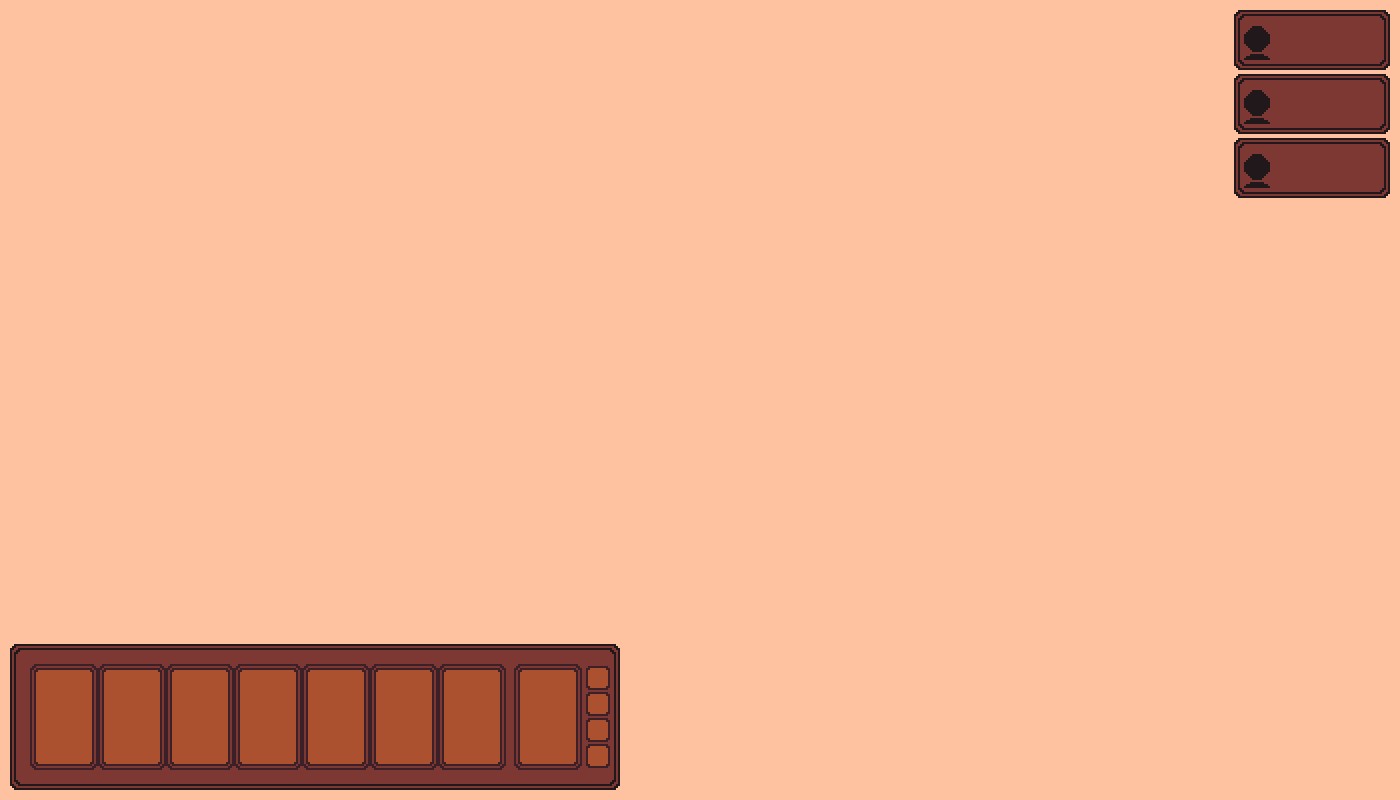
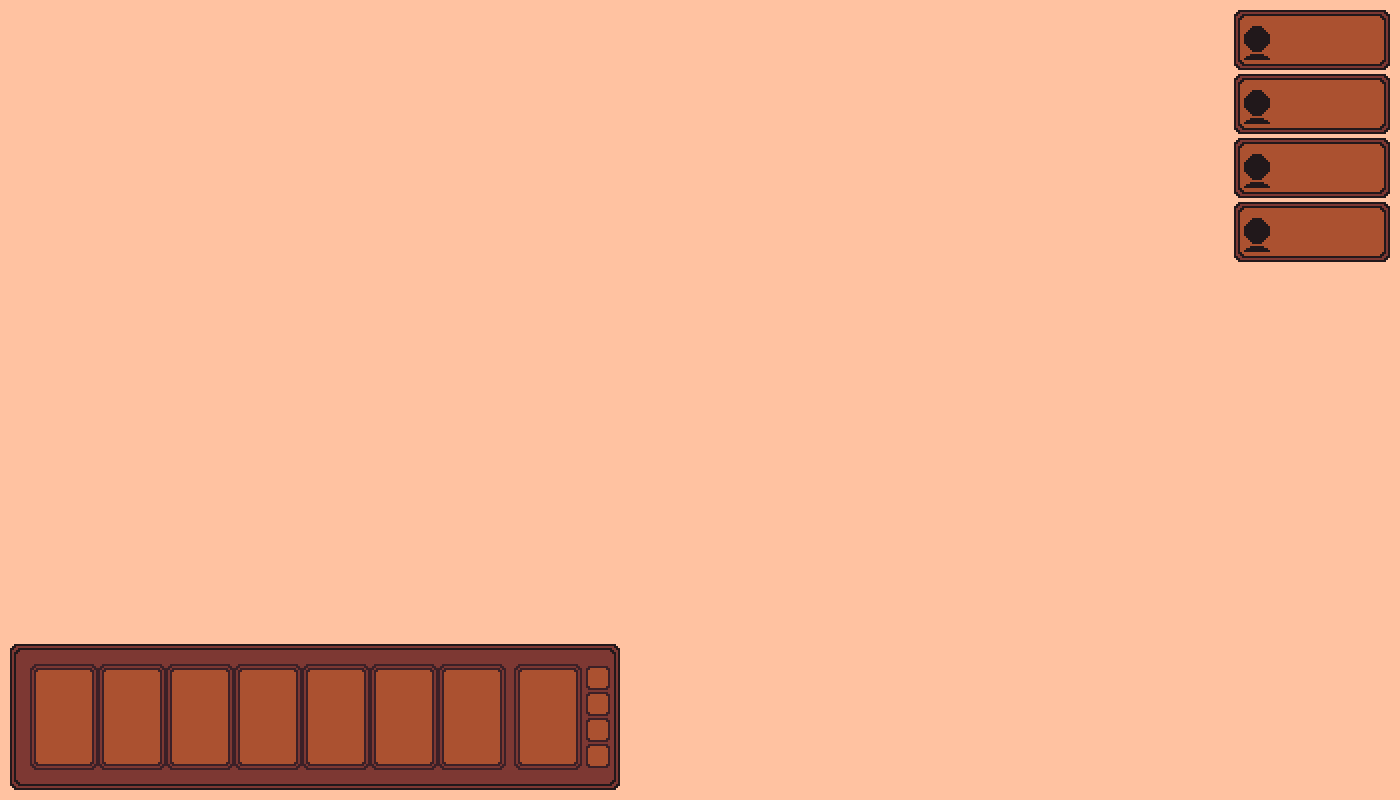
players_dominoes function has been greatly improved
-New tables png

Changed region(s): [[0.86, 0.0, 1.0, 0.3438]]

diff --git a/main.py b/main.py
@@ -35,7 +35,8 @@ PLAYER_NUM_pos = (240, 599)
 WINDOW.blit(BACKGROUND, (0, 0))
 WINDOW.blit(PLAYER__, PLAYER__pos)
 
-OBJECTS = []#Domino([1, 6], x=200, y=200)]
+#domino_test = Domino([1, 6], x=200, y=200)]
+OBJECTS = []#domino_test
 LAYERS = {0: Layer()}
 
 PLAYERS = [Player() for _ in range(PLAYERS_NUM)]
@@ -264,20 +265,25 @@ class Table:
         self.right_iterator += 1
 
     def players_dominoes(self):
-        x, y = 1300, 30
-        for player_idx in range(1, PLAYERS_NUM):
-            dominoes_amount = len(PLAYERS[player_idx].dominoes)
-
-            if dominoes_amount == 0:
-                break
+        x, y = 1309, 30
+        num_x, num_y = 1260, 12
+        for player in range(0, PLAYERS_NUM):
+            dominoes_amount = len(PLAYERS[player].dominoes)
 
             if dominoes_amount >= 7:
                 dominoes_amount = 7
 
             num_dominoes = pygame.image.load(f"assets/Dominos (Interface)/{dominoes_amount}.png").convert()
             num_dominoes.set_colorkey( GREEN_SCREEN_BKG )
+
+            player_num = pygame.image.load(f"assets/Dominos (Interface)/{player + 1}p.png").convert()
+            player_num.set_colorkey( GREEN_SCREEN_BKG )
+
             WINDOW.blit(num_dominoes, (x, y))
+            WINDOW.blit(player_num, (num_x, num_y))
+
             x, y = x, y + 65
+            num_x, num_y = num_x, num_y + 64
 
     def activate_arrows(self):
         if self.left_arrow_orientation:
@@ -326,7 +332,6 @@ class Table:
     def player_plays(self, player_idx):
         played = False
 
-        print(OBJECTS)
         while played != True:
             for event in pygame.event.get():
                 if event.type == QUIT:
@@ -370,10 +375,8 @@ class Table:
                         sys.exit()
 
             self.draw_player_dominoes(player_idx)
-            self.players_dominoes()
             update_layers()
 
-        print(OBJECTS)
         time.sleep(SLEEP_TIME)
         return played
 
@@ -411,6 +414,7 @@ def update_layers():
     WINDOW.blit(BACKGROUND, (0, 0))
     WINDOW.blit(PLAYER__, PLAYER__pos)
     WINDOW.blit(player_to_play, PLAYER_NUM_pos)
+    table.players_dominoes()
 
     for object in OBJECTS:
         if object.layer not in LAYERS:
@@ -427,6 +431,7 @@ def update_layers():
 
 
 def main():
+    global table
     table = Table()
     table.start_game()
 
@@ -459,7 +464,6 @@ def main():
             if TURN >= PLAYERS_NUM:
                 TURN = 0
 
-        table.players_dominoes()
         update_layers()
 
     OBJECTS, LAYERS = table.repeat_game()
